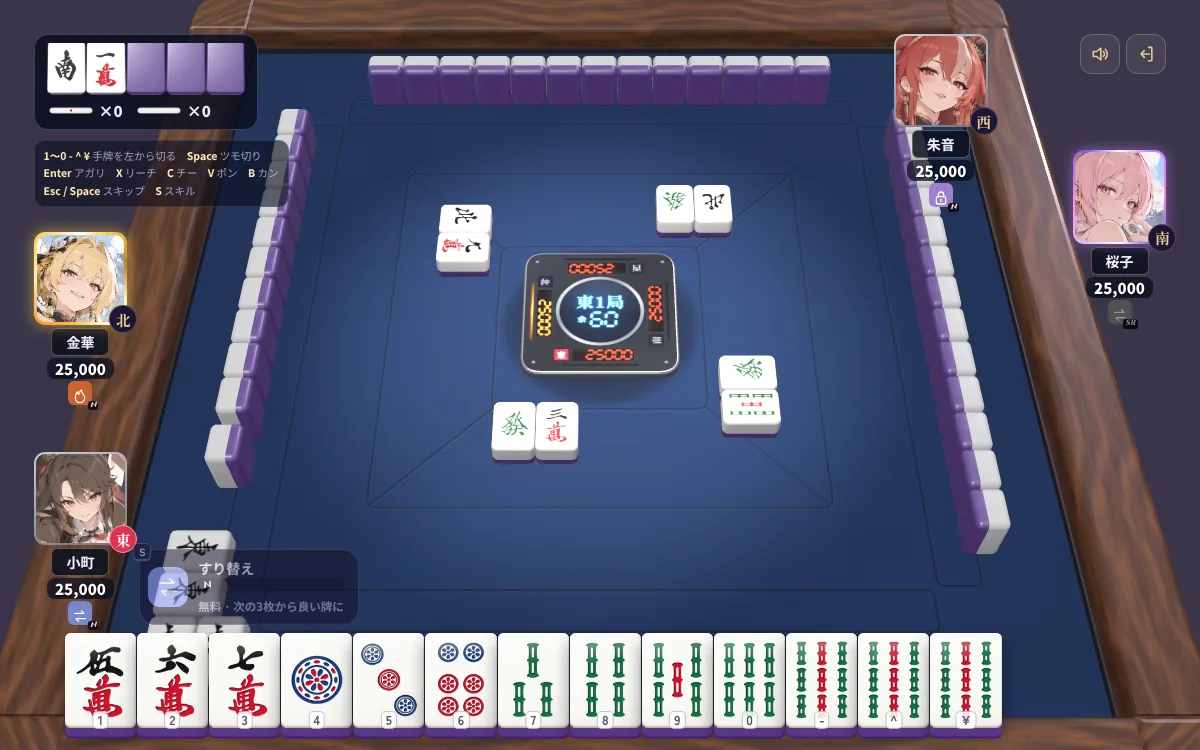
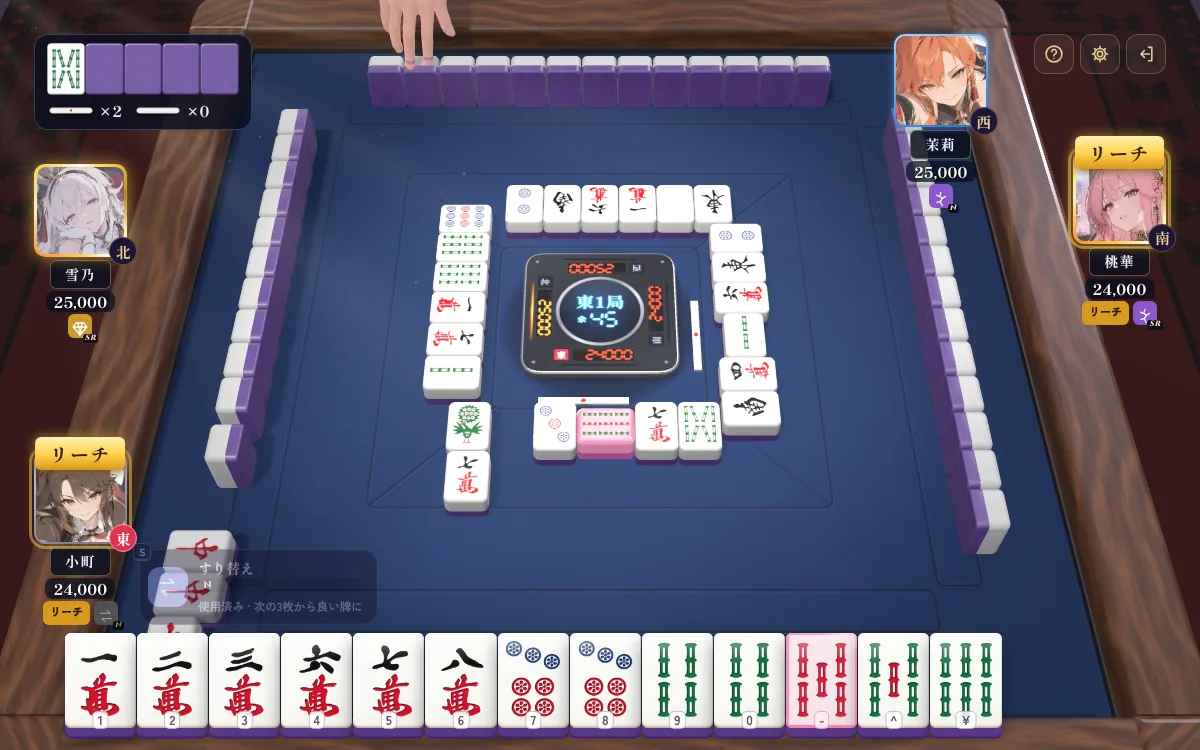
雀華: ポンが2枚に見える不具合を修正、トップのスクリーンショットを更新
Claude-Session: https://claude.ai/code/session_01EiWRAWFrphxfULk5c5xm1E

diff --git a/index.html b/index.html
@@ -981,7 +981,7 @@ const LAB = [
   { id:'hexdeck', href:'./hexdeck/', thumb:'images/hexdeck.webp', icon:'images/icons/hexdeck.svg', kind:'BOARD GAME', key:'hd', alpha:true, tags:['original','ai','mobile'], facts:{ maps:6, players:'1 vs BOT' } },
   { id:'overkill', href:'./overkill/', thumb:'images/overkill.webp?v=1', icon:'images/icons/overkill.svg', kind:'SHOGI · DECK BUILDING', key:'ok', alpha:'pre', tags:['original','ai','mobile'], facts:{ players:'1 vs AI' } },
   { id:'wyrm', href:'./wyrm/', thumb:'images/wyrm.webp?v=5', icon:'images/icons/wyrm.svg', kind:'3D SHOOTER', key:'wy', name:'WYRMSPHERE', alpha:'pre', tags:['original','shooter','gamepad','mobile'], facts:{ players:'1' } },
-  { id:'mahjong', href:'./mahjong/', thumb:'images/mahjong.webp?v=1', icon:'images/icons/mahjong.webp?v=2', kind:'MAHJONG', key:'jk', alpha:'pre', tags:['original','ai','mobile'], facts:{ players:'1 vs BOT' } },
+  { id:'mahjong', href:'./mahjong/', thumb:'images/mahjong.webp?v=2', icon:'images/icons/mahjong.webp?v=2', kind:'MAHJONG', key:'jk', alpha:'pre', tags:['original','ai','mobile'], facts:{ players:'1 vs BOT' } },
 ];
 /* ソフトウェア（soon = 遷移しない・「準備中」表示 / ext = 外部サイトを新しいタブで開く） */
 const SOFTWARE = [

diff --git a/mahjong/table3d.js b/mahjong/table3d.js
@@ -771,6 +771,10 @@ class Table3D {
       shift[rw] = found[0]; back[rw] = acc = found[1];
     }
     for (const it of items) {
+      // a called tile is no longer the river's: it lies in the caller's meld (or the player's hand row) — leave it where that put it.
+      // (ユーザー 2026-11-14: a pon sometimes showed only two tiles — when the caller's melds were laid out before the discarder's
+      // river, the river took its tile back and hid it)
+      if (it.r.taken) continue;
       const g = this.tile(it.r.id), lx = it.lx + shift[it.row], lz = it.lz + back[it.row], last = animLast && it.i === river.length - 1;
       const anim = last ? { reach: seat, from: g.visible && g.userData.pose === 'stand' ? null : fromLx && typeof fromLx === 'object' ? fromLx : this.handOrigin(seat, fromLx) }   // (the hand takes the tile out of the owner's hand)
         : (g.visible && g.userData.rseat === seat && g.userData.target && Math.hypot(g.userData.target.x - this.local(seat, lx, lz).x, g.userData.target.z - this.local(seat, lx, lz).z) > .01 ? { dur: 240, level: true } : null);   // (a row moved aside slides there)

diff --git a/mahjong/index.html b/mahjong/index.html
@@ -17,7 +17,7 @@
 <link rel="preconnect" href="https://fonts.googleapis.com">
 <link rel="preconnect" href="https://fonts.gstatic.com" crossorigin>
 <link href="https://fonts.googleapis.com/css2?family=Shippori+Mincho+B1:wght@600;800&family=Yuji+Boku&family=Zen+Kaku+Gothic+New:wght@500;700;900&family=Cinzel:wght@600;800&family=Orbitron:wght@700&display=swap" rel="stylesheet">
-<link rel="stylesheet" href="app.css?v=62">
+<link rel="stylesheet" href="app.css?v=63">
 </head>
 <body>
 <div id="root">
@@ -129,9 +129,9 @@ else document.write('<script src="../atlas/vendor/three-r186.min.js?v=1"><\/scri
 <script src="chars.js?v=4"></script>
 <script src="img/tex/baked.js?v=2"></script>
 <script src="hand.js?v=6"></script>
-<script src="table3d.js?v=53"></script>
+<script src="table3d.js?v=54"></script>
 <script src="framefx.js?v=12"></script>
 <script src="../shared/record.js?v=16"></script>
-<script src="app.js?v=64"></script>
+<script src="app.js?v=65"></script>
 </body>
 </html>

diff --git a/mahjong/app.js b/mahjong/app.js
@@ -888,6 +888,7 @@ async function onEvent(ev, d) {
       // the caller's hand takes the tile (チー・ポン・明槓: from the river where it lies; 暗槓・加槓: from the caller's own hand)
       const cid = d.called != null ? d.called : d.added != null ? d.added : d.tiles[0], was = d.called != null ? TB.tilePose(cid) : null;
       layoutAll();
+      if (d.seat === ME && d.called != null) TB.tile(cid).visible = false;   // (my melds are drawn in the page: the tile has no place on the table — carried off toward me)
       TB.carry(d.seat, cid, was && was.seen ? was : null);
       await sleep(d.called != null ? 620 : 380);
       if (d.seat === ME) renderHand();

diff --git a/claude/mahjong-spec.md b/claude/mahjong-spec.md
@@ -23,6 +23,7 @@
 - ツモ牌は手牌から少し離す。河は隣と重ならない（卍型にずらす）
 - 他家の理牌（2026-11-14）：打牌を河に置いた手がそのまま手牌に戻り、ツモ牌を持ち上げて正しい位置へ差し込む（間の牌は横にずれて場所を空ける）。鳴いた後などツモ牌がない打牌は、手で右側の牌を押して隙間を詰める。自分の手牌は自動で詰める
 - 河とドラ表示の牌は隣同士ぴったり付ける（くっつけるが融合しない）
+- 鳴かれた牌は河の配置から外す（layoutRiver は taken の牌に触らない。2026-11-14：鳴いた側の副露を河より先に並べると河が牌を取り戻して隠し、ポンが2枚に見えた）。自分が鳴いた牌は卓上から消す（副露はページ側に描く）
 - 河は重ならない（2026-11-14）：各列を他家の河の牌と当たり判定し、当たる列だけ列の方向に最小限ずらす（ずらせない時だけ自分側へ下げる）。半透明にはしない
 - ウィンドウが前面にないときは対局を進めない（shared/focusgate.js で performance.now が止まり、待ち時間 sleep も止まる）
 - 左上の箱：ドラ表示牌（3D牌を正面からパースなしで撮った画像 `TB.tileShot`、まっすぐ並べる、縁は卓の牌より鋭め、「ドラ」の文字なし）、その下に供託（1000点棒アイコン×本数）と積み棒（100点棒アイコン×本場）。中央の点数表示機は点数と「◯局」「余◯」だけ
